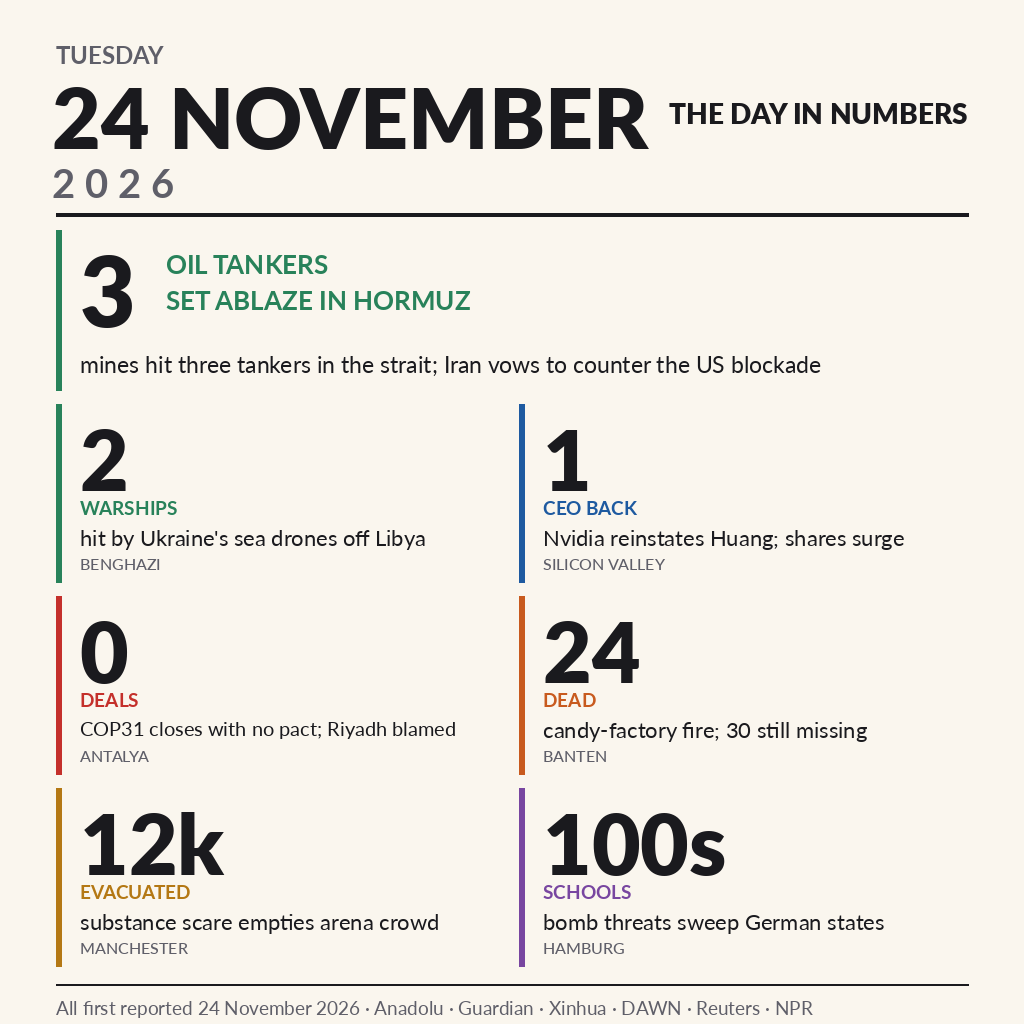
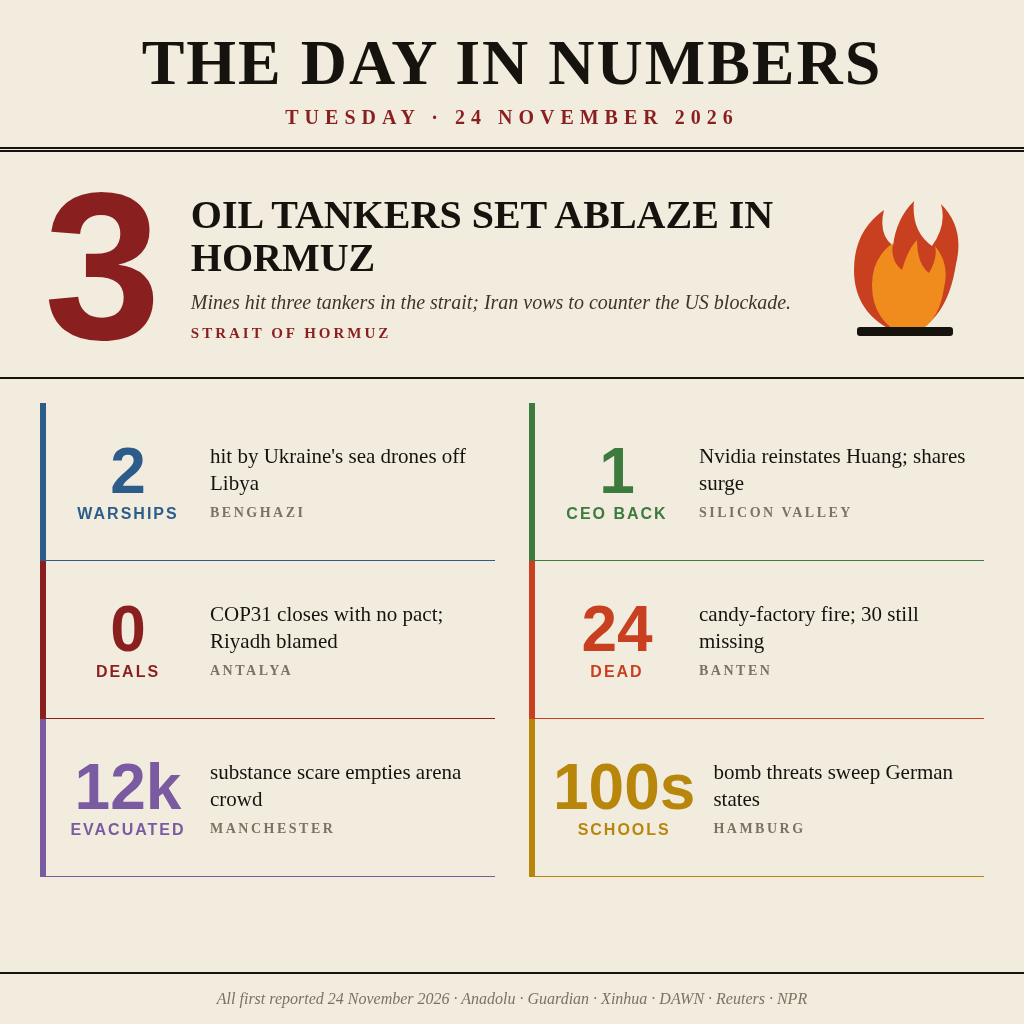
entry: rebuild poster via html render, switch entrypoint to node

Changed region(s): [[0.0, 0.0312, 1.0, 1.0], [0.2188, 0.5938, 0.4375, 0.6562], [0.6875, 0.5938, 0.9062, 0.6562]]

diff --git a/poster.html b/poster.html
@@ -1,0 +1,58 @@
+<!doctype html>
+<html><head><meta charset="utf-8"><style>
+  * { margin:0; padding:0; box-sizing:border-box; }
+  html,body { width:1024px; height:1024px; overflow:hidden; background:#f2ecdf;
+              font-family:Georgia,"Times New Roman",serif; color:#16130f; }
+  .mast { padding:26px 40px 18px; border-bottom:5px double #16130f; text-align:center; }
+  .mast h1 { font-size:64px; font-weight:900; letter-spacing:2px; }
+  .mast .date { font-size:20px; letter-spacing:6px; margin-top:6px; color:#8a1f1f; font-weight:700; }
+  .lead { display:flex; align-items:center; gap:30px; padding:26px 44px 20px; border-bottom:2px solid #16130f; }
+  .lead .num { font-size:210px; font-weight:900; line-height:.85; color:#8a1f1f;
+               font-family:"Arial Black",Arial,sans-serif; }
+  .lead .rt { flex:1; }
+  .lead h2 { font-size:40px; font-weight:900; line-height:1.08; text-transform:uppercase; }
+  .lead p { font-size:20px; margin-top:10px; font-style:italic; color:#3d3527; line-height:1.3; }
+  .lead .loc { font-size:15px; letter-spacing:3px; margin-top:10px; color:#8a1f1f; font-weight:700; }
+  .flames { width:150px; height:150px; flex:none; }
+  .grid { display:grid; grid-template-columns:1fr 1fr; padding:24px 40px 0; gap:0 34px; }
+  .tile { display:flex; gap:18px; padding:20px 0 18px 18px; border-left:6px solid;
+          border-bottom:1px solid #b9ae97; min-height:158px; align-items:center; }
+  .tile .n { font-family:"Arial Black",Arial,sans-serif; font-size:64px; font-weight:900;
+             line-height:.9; min-width:128px; text-align:center; }
+  .tile .u { font-size:16px; font-weight:800; letter-spacing:2px; text-transform:uppercase; margin-top:6px; }
+  .tile .t { flex:1; }
+  .tile .ln { font-size:21px; line-height:1.3; }
+  .tile .pl { font-size:14px; letter-spacing:2.5px; color:#7c7261; margin-top:8px; font-weight:700; }
+  .foot { position:absolute; bottom:0; left:0; right:0; padding:16px 40px; border-top:2px solid #16130f;
+          font-size:16px; color:#7c7261; font-style:italic; text-align:center; }
+</style></head><body>
+<div class="mast"><h1>THE DAY IN NUMBERS</h1><div class="date">TUESDAY &middot; 24 NOVEMBER 2026</div></div>
+<div class="lead">
+  <div class="num">3</div>
+  <div class="rt">
+    <h2>Oil tankers set ablaze in Hormuz</h2>
+    <p>Mines hit three tankers in the strait; Iran vows to counter the US blockade.</p>
+    <div class="loc">STRAIT OF HORMUZ</div>
+  </div>
+  <svg class="flames" viewBox="0 0 100 100">
+    <path d="M50 96 q-34 -12 -34 -44 q0 -26 20 -40 q-4 16 6 24 q2 -18 14 -30 q-2 20 12 30 q10 -14 6 -28 q16 16 10 40 q-6 40 -34 48z" fill="#c8401f"/>
+    <path d="M50 96 q-22 -10 -22 -34 q0 -18 14 -28 q-2 12 6 18 q4 -14 10 -20 q0 16 8 22 q6 -10 4 -18 q10 12 6 28 q-4 28 -26 32z" fill="#f08c1e"/>
+    <rect x="18" y="90" width="64" height="6" rx="2" fill="#16130f"/>
+  </svg>
+</div>
+<div class="grid">
+  <div class="tile" style="border-color:#2c5d8a"><div class="n" style="color:#2c5d8a">2<div class="u">warships</div></div>
+    <div class="t"><div class="ln">hit by Ukraine's sea drones off Libya</div><div class="pl">BENGHAZI</div></div></div>
+  <div class="tile" style="border-color:#3d7a3d"><div class="n" style="color:#3d7a3d">1<div class="u">CEO back</div></div>
+    <div class="t"><div class="ln">Nvidia reinstates Huang; shares surge</div><div class="pl">SILICON VALLEY</div></div></div>
+  <div class="tile" style="border-color:#8a1f1f"><div class="n" style="color:#8a1f1f">0<div class="u">deals</div></div>
+    <div class="t"><div class="ln">COP31 closes with no pact; Riyadh blamed</div><div class="pl">ANTALYA</div></div></div>
+  <div class="tile" style="border-color:#c8401f"><div class="n" style="color:#c8401f">24<div class="u">dead</div></div>
+    <div class="t"><div class="ln">candy-factory fire; 30 still missing</div><div class="pl">BANTEN</div></div></div>
+  <div class="tile" style="border-color:#7a5aa0"><div class="n" style="color:#7a5aa0">12k<div class="u">evacuated</div></div>
+    <div class="t"><div class="ln">substance scare empties arena crowd</div><div class="pl">MANCHESTER</div></div></div>
+  <div class="tile" style="border-color:#b8860b"><div class="n" style="color:#b8860b">100s<div class="u">schools</div></div>
+    <div class="t"><div class="ln">bomb threats sweep German states</div><div class="pl">HAMBURG</div></div></div>
+</div>
+<div class="foot">All first reported 24 November 2026 &middot; Anadolu &middot; Guardian &middot; Xinhua &middot; DAWN &middot; Reuters &middot; NPR</div>
+</body></html>

diff --git a/main.ts b/main.ts
@@ -1,0 +1,22 @@
+// Entry for make.fun's "Sum up 24 November's world news in one image" bounty.
+//
+// The poster, `entry.png`, is checked into this repository next to this file.
+// The program delivers those committed bytes verbatim to `<out>/entry.png`;
+// because nothing is generated at run time, every graded run sees the same
+// byte-identical image.
+
+import { copyFileSync, mkdirSync } from "node:fs";
+import { dirname, join } from "node:path";
+import { fileURLToPath } from "node:url";
+
+// --out <dir> overrides MAKEFUN_OUTPUT_DIR for local runs.
+const cliOut = process.argv.indexOf("--out");
+const outDir =
+  cliOut > -1 && process.argv[cliOut + 1]
+    ? process.argv[cliOut + 1]
+    : process.env.MAKEFUN_OUTPUT_DIR ?? "/output";
+const poster = join(dirname(fileURLToPath(import.meta.url)), "entry.png");
+
+mkdirSync(outDir, { recursive: true });
+copyFileSync(poster, join(outDir, "entry.png"));
+console.log(`wrote ${join(outDir, "entry.png")}`);

diff --git a/README.md b/README.md
@@ -12,14 +12,15 @@ tagged with its place — all set beneath a masthead carrying the date.
 
 ## How it works
 
-`main.py` uses only the Python standard library. The poster ships inside
-this repository as `entry.png`; the program copies those committed bytes
-to `<out>/entry.png` (`--out`, default `/output`) without altering them.
-The poster was rendered deterministically — fixed layout, fixed text, no
-clock, no randomness — so every grading pass sees identical output.
+`main.ts` runs on Node 22 with no dependencies. The poster ships inside
+this repository as `entry.png` (rendered from `poster.html`); the program
+copies those committed bytes to `<out>/entry.png` (`--out`, else
+`MAKEFUN_OUTPUT_DIR`, default `/output`) without altering them. Fixed
+layout, fixed text, no clock, no randomness — every grading pass sees
+identical output.
 
 ## Run
 
 ```sh
-python3 main.py --out /output
+node main.ts --out /output
 ```
